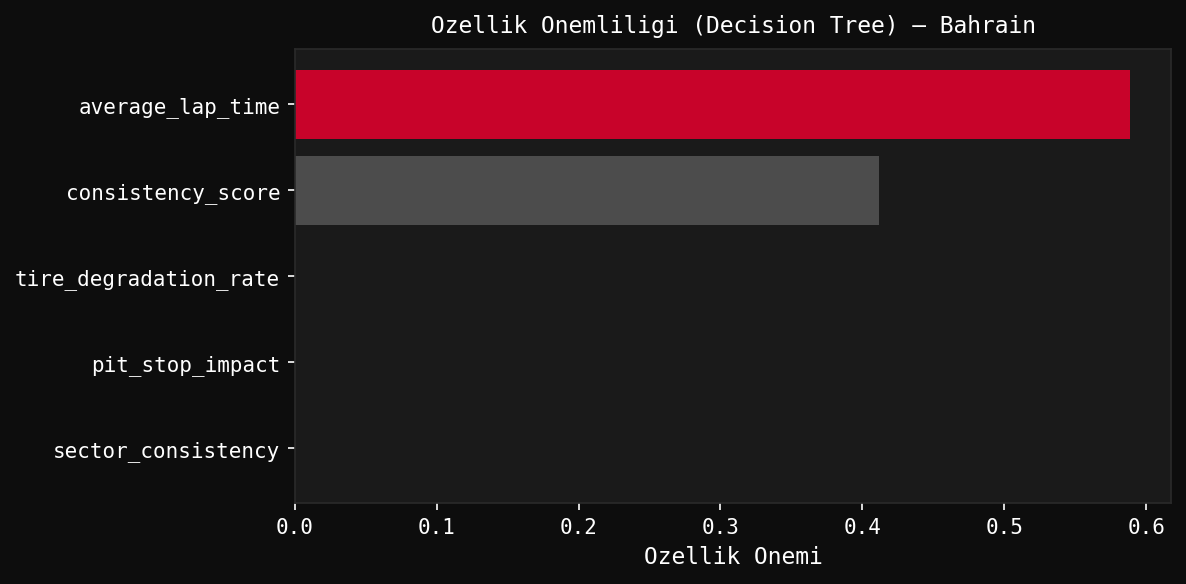
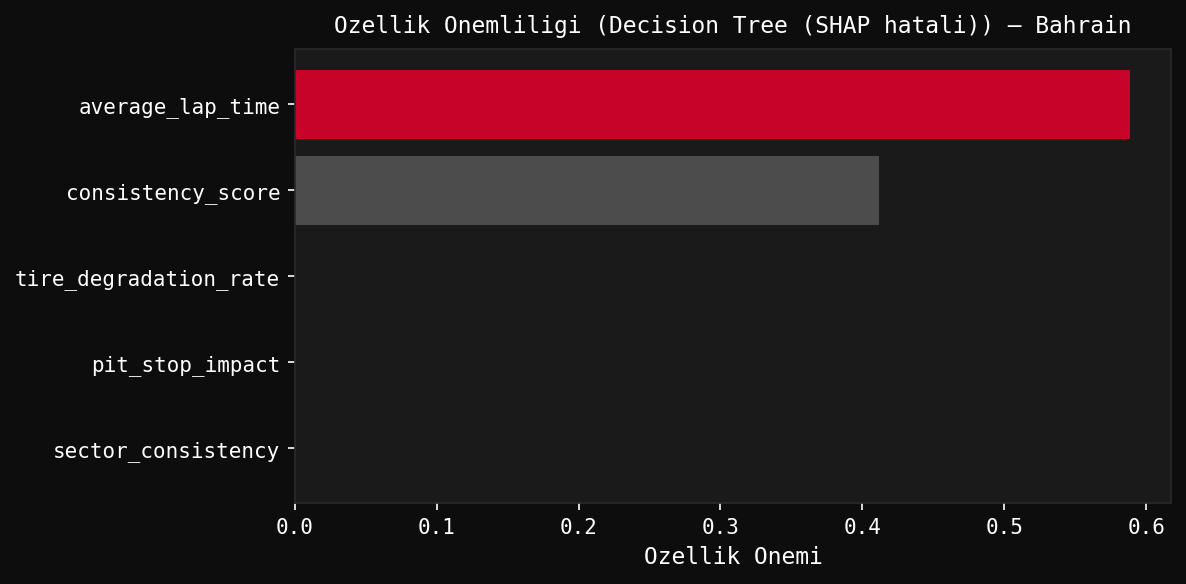
Add Australia GP academic outputs and Bahrain MD report
- reports/figures/evaluation/: 13 PNG (ablation, CV, confusion matrix,
  driver errors, feature correlation, gridsearch, kmeans, learning curves,
  model comparison, overfitting, ROC, stat tests — Australia GP)
- reports/figures/xai/: 4 PNG (feature importance, permutation — Australia GP)
- reports/tables/: 8 CSV + 2 MD (Australia GP + Bahrain model comparison MD)
  ablation, cv results, error analysis, feature correlation, model comparison,
  overfitting, statistical tests
- Updated fi_bahrain.png (re-rendered during PDF test)

Changed region(s): [[0.2808, 0.0308, 0.9671, 0.0616]]

diff --git a/reports/tables/model_comparison_australia.md b/reports/tables/model_comparison_australia.md
@@ -1,0 +1,13 @@
+# Model Karsilastirma — Australia
+
+| Model         |   CV Mean Acc |   CV Std |   CV Precision |   CV Recall |   CV F1 |    AUC |   GS Best Score |   Overfit Gap | Best Params                                                                          |
+|:--------------|--------------:|---------:|---------------:|------------:|--------:|-------:|----------------:|--------------:|:-------------------------------------------------------------------------------------|
+| Decision Tree |        0.6333 |   0.3055 |         0.5167 |         0.7 |  0.5667 | 0.6515 |          0.7778 |        0.3667 | {'criterion': 'gini', 'max_depth': 3, 'min_samples_leaf': 1, 'min_samples_split': 2} |
+| kNN           |        0.7667 |   0.2906 |         0.6833 |         0.8 |  0.7167 | 0.8258 |          0.7778 |        0.1454 | {'metric': 'euclidean', 'n_neighbors': 3, 'weights': 'uniform'}                      |
+
+## Yorum
+
+- kNN, Decision Tree'ye kiyasla daha iyi AUC elde etmistir (0.826 vs 0.651).
+- Decision Tree'de asiri ogrenme riski vardir (egitim-test farki: 0.367).
+
+**En iyi model:** kNN

diff --git a/reports/tables/model_comparison_bahrain.md b/reports/tables/model_comparison_bahrain.md
@@ -1,0 +1,12 @@
+# Model Karsilastirma — Bahrain
+
+| Model         |   CV Mean Acc |   CV Std |   CV Precision |   CV Recall |   CV F1 |    AUC |   GS Best Score |   Overfit Gap | Best Params                                                                          |
+|:--------------|--------------:|---------:|---------------:|------------:|--------:|-------:|----------------:|--------------:|:-------------------------------------------------------------------------------------|
+| Decision Tree |        0.9048 |   0.0673 |         0.7262 |      0.8056 |  0.7498 | 0.8039 |          0.8492 |        0.0952 | {'criterion': 'gini', 'max_depth': 3, 'min_samples_leaf': 1, 'min_samples_split': 2} |
+| kNN           |        0.8492 |   0.0112 |         0.4246 |      0.5    |  0.4592 | 0.6176 |          0.8492 |        0.0006 | {'metric': 'euclidean', 'n_neighbors': 5, 'weights': 'uniform'}                      |
+
+## Yorum
+
+- Decision Tree, kNN'e kiyasla belirgin sekilde daha iyi ayirt edici guc gostermektedir (AUC: 0.804 vs 0.618).
+
+**En iyi model:** Decision Tree